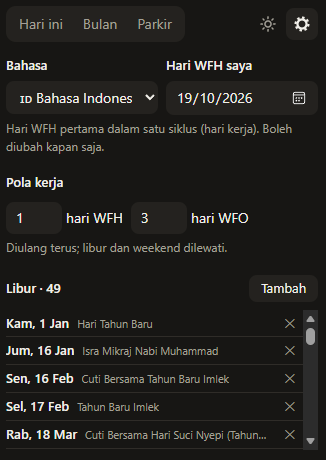
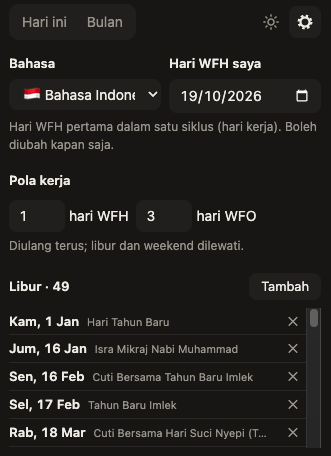
feat(readme): update readme

diff --git a/popup.js b/popup.js
@@ -27,17 +27,18 @@ const label = (st) => (st === 'libur' ? t('libur') : st.toUpperCase()); // WFO/W
 const dt = (iso, opts) => new Intl.DateTimeFormat(LANGS[lang].locale, { timeZone: 'UTC', ...opts }).format(new Date(toNum(iso) * 864e5));
 const fmt = (iso) => dt(iso, { weekday: 'short', day: 'numeric', month: 'short', year: 'numeric' });
 const dow = (iso) => dt(iso, { weekday: 'short' });
+const parkName = (k) => t(k === 'tapin' ? 'tapIn' : 'flazz');
 const today = todayIso();
 const Y0 = +today.slice(0, 4);
 let year = Y0, month = +today.slice(5, 7) - 1;
-let pday = today; // hari yang sedang diedit di tab Parkir
+let pday = null; // hari yang dipilih di kalender Bulan; tombol parkir muncul hanya kalau ada
 
 const save = () => store.set({ anchor, holidays, wfh, wfo });
 const savePark = () => pstore.set({ parking });
 const hasHolidays = (y) => Object.keys(holidays).some((d) => d.startsWith(`${y}-`));
 
 function show(tab) {
-  for (const s of ['today', 'month', 'parking', 'settings']) $(s).hidden = s !== tab;
+  for (const s of ['today', 'month', 'settings']) $(s).hidden = s !== tab;
   document.querySelectorAll('[data-tab]').forEach((b) => b.setAttribute('aria-current', b.dataset.tab === tab));
   render();
 }
@@ -49,9 +50,8 @@ function render() {
   else if (!hasHolidays(viewYear)) $('warn').textContent = t('warnHolidays', viewYear);
   else $('warn').hidden = true;
   if (!anchor && $('month').hidden) $('warn').hidden = true; // kartu hari ini / pengaturan sudah mengarahkan
-  if (!$('parking').hidden) $('warn').hidden = true;
 
-  renderToday(); renderMonth(); renderParking(); renderSettings();
+  renderToday(); renderMonth(); renderSettings();
 }
 
 function renderToday() {
@@ -97,60 +97,44 @@ function renderMonth() {
   const monday = toNum('2024-01-01'); // hari Senin apa saja, untuk nama hari
   grid.replaceChildren(...Array.from({ length: 7 }, (_, i) => Object.assign(document.createElement('div'), { className: 'dow', textContent: dow(toIso(monday + i)) })));
   for (let i = 0; i < lead; i++) grid.append(Object.assign(document.createElement('div'), { className: 'cell blank' }));
+  const ym = `${year}-${mm}`;
+  if (pday && !pday.startsWith(ym)) pday = null;
   const count = { wfo: 0, wfh: 0, libur: 0 };
-  for (let n = first; toIso(n).startsWith(`${year}-${mm}`); n++) {
+  const pcount = { tapin: 0, flazz: 0 };
+  for (let n = first; toIso(n).startsWith(ym); n++) {
     const iso = toIso(n);
     const st = anchor ? statusOf(iso, anchor, holidays, wfh, wfo) : (isOff(iso, holidays) ? 'libur' : '');
     const weekend = isWeekend(iso);
     if (st && !weekend) count[st]++;
-    const c = document.createElement('div');
-    c.className = `cell ${iso in holidays ? 'libur' : weekend ? 'weekend' : st}${iso === today ? ' today' : ''}`; // libur di weekend tetap merah
+    const kind = parking[iso];
+    if (kind) pcount[kind]++;
+    // Lingkaran = status kerja; huruf T/F di pojok = catatan parkir. Klik untuk memilih hari.
+    const c = document.createElement('button');
+    c.className = `cell ${iso in holidays ? 'libur' : weekend ? 'weekend' : st}${iso === today ? ' today' : ''}${iso === pday ? ' sel' : ''}`; // libur di weekend tetap merah
+    if (kind) { c.dataset.park = kind === 'tapin' ? 'T' : 'F'; c.classList.add(`pk-${kind}`); }
     if (iso in holidays) c.dataset.tip = iso;
     else if (weekend || st) c.title = label(weekend ? 'libur' : st);
+    c.setAttribute('aria-label', `${fmt(iso)}${st ? `, ${label(weekend ? 'libur' : st)}` : ''}${kind ? `, ${parkName(kind)}` : ''}`);
+    c.setAttribute('aria-pressed', iso === pday);
+    c.onclick = () => { pday = pday === iso ? null : iso; renderMonth(); }; // klik lagi = tutup
     const num = document.createElement('b');
     num.textContent = +iso.slice(8);
     c.append(num);
     grid.append(c);
   }
-  $('summary').hidden = !anchor;
-  $('summary').replaceChildren(...['wfh', 'wfo', 'libur'].flatMap((k) =>
-    [Object.assign(document.createElement('i'), { className: `k ${k}` }), `${count[k]} ${label(k)}`]));
-}
+  // Satu baris: status kerja (kalau anchor ada) lalu jumlah parkir (selalu tampil).
+  const span = (items) => { const g = document.createElement('span'); g.className = 'grp'; g.append(...items); return g; };
+  $('summary').replaceChildren(
+    ...(anchor ? [span(['wfh', 'wfo', 'libur'].flatMap((k) =>
+      [Object.assign(document.createElement('i'), { className: `k ${k}` }), `${count[k]} ${label(k)}`]))] : []),
+    span(['tapin', 'flazz'].flatMap((k) =>
+      [Object.assign(document.createElement('i'), { className: `k pk-${k}`, textContent: k === 'tapin' ? 'T' : 'F', title: parkName(k) }), `${pcount[k]}`])));
 
-function renderParking() {
-  const mm = String(month + 1).padStart(2, '0');
-  const ym = `${year}-${mm}`;
-  $('p-title').textContent = dt(`${ym}-01`, { month: 'long', year: 'numeric' });
-  $('p-prev').disabled = $('prev').disabled;
-  $('p-next').disabled = $('next').disabled;
-  if (!pday.startsWith(ym)) pday = ym === today.slice(0, 7) ? today : `${ym}-01`;
-
-  const grid = $('p-grid');
-  const first = toNum(`${ym}-01`);
-  const lead = (new Date(first * 864e5).getUTCDay() + 6) % 7;
-  const monday = toNum('2024-01-01');
-  grid.replaceChildren(...Array.from({ length: 7 }, (_, i) => Object.assign(document.createElement('div'), { className: 'dow', textContent: dow(toIso(monday + i)) })));
-  for (let i = 0; i < lead; i++) grid.append(Object.assign(document.createElement('div'), { className: 'cell blank' }));
-  const count = { tapin: 0, flazz: 0 };
-  for (let n = first; toIso(n).startsWith(ym); n++) {
-    const iso = toIso(n);
-    const kind = parking[iso];
-    if (kind) count[kind]++;
-    const c = document.createElement('button');
-    c.className = `cell pk${kind ? ` ${kind}` : ''}${iso === pday ? ' sel' : ''}${iso === today ? ' today' : ''}`;
-    c.setAttribute('aria-label', `${fmt(iso)}${kind ? `: ${t(kind === 'tapin' ? 'tapIn' : 'flazz')}` : ''}`);
-    c.onclick = () => { pday = iso; renderParking(); };
-    c.append(Object.assign(document.createElement('b'), { textContent: +iso.slice(8) }));
-    grid.append(c);
-  }
-
+  $('p-edit').hidden = !pday;
+  if (!pday) return;
   const cur = parking[pday];
-  $('p-day').textContent = `${fmt(pday)} · ${cur ? t(cur === 'tapin' ? 'tapIn' : 'flazz') : t('parkNone')}`;
+  $('p-day').textContent = `${fmt(pday)} · ${cur ? parkName(cur) : t('parkNone')}`;
   document.querySelectorAll('.pick [data-kind]').forEach((b) => b.classList.toggle('on', b.dataset.kind === cur));
-  // angka muncul setelah ada yang dipilih bulan ini
-  $('p-summary').hidden = !count.tapin && !count.flazz;
-  $('p-summary').replaceChildren(...['tapin', 'flazz'].flatMap((k) =>
-    [Object.assign(document.createElement('i'), { className: `k ${k}` }), `${t(k === 'tapin' ? 'tapIn' : 'flazz')}: ${t('parkCount', count[k])}`]));
 }
 
 function renderSettings() {
@@ -182,13 +166,13 @@ function msg(text, ok, id = 'msg') {
 
 document.querySelectorAll('[data-tab]').forEach((b) => (b.onclick = () => show(b.dataset.tab)));
 const step = (d) => { month += d; year += Math.floor(month / 12); month = (month + 12) % 12; render(); };
-$('prev').onclick = $('p-prev').onclick = () => step(-1);
-$('next').onclick = $('p-next').onclick = () => step(1);
+$('prev').onclick = () => step(-1);
+$('next').onclick = () => step(1);
 
 // Satu hari satu pilihan: klik yang lain mengganti, klik yang sama menghapus.
 document.querySelectorAll('.pick [data-kind]').forEach((b) => (b.onclick = () => {
   if (parking[pday] === b.dataset.kind) delete parking[pday]; else parking[pday] = b.dataset.kind;
-  savePark(); renderParking();
+  savePark(); renderMonth();
 }));
 $('goto-today').onclick = () => { year = Y0; month = +today.slice(5, 7) - 1; render(); };
 

diff --git a/popup.css b/popup.css
@@ -4,6 +4,7 @@
   --bg: #fafaf8; --fg: #1c1b19; --muted: #6a675f; --line: #e4e1da; --tile: #efede7;
   --wfo-bg: #1c1b19; --wfo-fg: #fafaf8;
   --wfh-bg: #1d4ed8; --wfh-fg: #fff; --red: #b91c1c;
+  --tap-bg: #0f766e; --tap-fg: #fff; --flz-bg: #b45309; --flz-fg: #fff;
   --warn-bg: #fdf1d3; --warn-fg: #7a4a06; --bad: #b42318; --good: #2a6b3a;
 }
 /* Tema ikut sistem, kecuali user memilih lewat tombol (data-theme di <html>). */
@@ -12,6 +13,7 @@
     --bg: #171614; --fg: #f1efe9; --muted: #a3a097; --line: #2f2c28; --tile: #24221f;
     --wfo-bg: #f1efe9; --wfo-fg: #171614;
     --wfh-bg: #60a5fa; --wfh-fg: #0b1733; --red: #f87171;
+    --tap-bg: #5eead4; --tap-fg: #042f2e; --flz-bg: #fbbf24; --flz-fg: #1c1917;
     --warn-bg: #3a2c0a; --warn-fg: #f6d58a; --bad: #ff8a80; --good: #7fd18f;
     color-scheme: dark;
   }
@@ -20,6 +22,7 @@
   --bg: #171614; --fg: #f1efe9; --muted: #a3a097; --line: #2f2c28; --tile: #24221f;
   --wfo-bg: #f1efe9; --wfo-fg: #171614;
   --wfh-bg: #60a5fa; --wfh-fg: #0b1733; --red: #f87171;
+    --tap-bg: #5eead4; --tap-fg: #042f2e; --flz-bg: #fbbf24; --flz-fg: #1c1917;
   --warn-bg: #3a2c0a; --warn-fg: #f6d58a; --bad: #ff8a80; --good: #7fd18f;
   color-scheme: dark;
 }
@@ -88,27 +91,26 @@ button:disabled { opacity: .3; cursor: default; }
 .cell.libur b { color: var(--red); }
 .k.libur { background: var(--red); }
 .cell.weekend b { color: var(--muted); font-weight: 400; }
-.cell.today b { outline: 2px solid var(--fg); outline-offset: 2px; }
+.cell.sel b, .cell.today b { outline: 2px solid var(--fg); outline-offset: 2px; }
 .blank { visibility: hidden; }
-#summary { display: flex; align-items: center; gap: 6px; margin: 12px 2px 0; font-size: 12px; color: var(--muted); }
+#summary { display: flex; flex-wrap: wrap; justify-content: space-between; gap: 6px 12px; margin: 12px 2px 0; font-size: 12px; color: var(--muted); }
+#summary .grp { display: flex; align-items: center; gap: 6px; }
 .k { width: 12px; height: 12px; font-style: normal; }
-.k:not(:first-child) { margin-left: 8px; }
+.k:not(:first-child) { margin-left: 6px; }
 
-/* Parkir: Tap In = biru, Flazz = tinta netral; satu hari satu pilihan */
-#parking header { display: flex; align-items: center; gap: 2px; margin-bottom: 8px; }
-#p-title { flex: 1; font-size: 16px; }
-#p-grid { display: grid; grid-template-columns: repeat(7, 1fr); row-gap: 4px; }
-.cell.pk { padding: 0; border-radius: 0; }
-.cell.pk:hover { background: none; }
-.cell.pk b { background: none; font-weight: 600; }
-.cell.pk.tapin b, .k.tapin { background: var(--wfh-bg); color: var(--wfh-fg); }
-.cell.pk.flazz b, .k.flazz { background: var(--wfo-bg); color: var(--wfo-fg); }
-.cell.pk.sel b { outline: 2px solid var(--fg); outline-offset: 2px; }
-#p-day { margin: 12px 2px 0; font-size: 13px; color: var(--muted); }
+/* Parkir di kalender Bulan: lingkaran tetap status kerja, huruf T/F di pojok = catatan parkir.
+   Tap In = teal, Flazz = amber: beda dari biru WFH dan merah libur. */
+.cell[aria-pressed] { position: relative; width: 100%; padding: 0; border-radius: 8px; }
+.cell[aria-pressed]:hover:not(:disabled) { background: none; }
+.cell[aria-pressed]:hover b { box-shadow: inset 0 0 0 1px var(--line); }
+#grid:has(.sel) .cell.today:not(.sel) b { outline: 2px dashed var(--muted); } /* hari ini tetap kelihatan saat hari lain dipilih */
+.cell[data-park]::after, .k[class*="pk-"] { content: attr(data-park); display: grid; place-items: center;
+  width: 14px; height: 14px; border-radius: 4px; font: 700 9px/1 system-ui, sans-serif; }
+.cell[data-park]::after { position: absolute; right: 1px; bottom: 0; }
+.pk-tapin::after, .k.pk-tapin, .pick .secondary.on[data-kind="tapin"] { background: var(--tap-bg); color: var(--tap-fg); }
+.pk-flazz::after, .k.pk-flazz, .pick .secondary.on[data-kind="flazz"] { background: var(--flz-bg); color: var(--flz-fg); }
+#p-day { margin: 14px 2px 0; padding-top: 12px; border-top: 1px solid var(--line); font-size: 13px; color: var(--muted); }
 .pick .secondary { flex: 1; padding: 10px; font-weight: 600; }
-.pick .secondary.on[data-kind="tapin"] { background: var(--wfh-bg); color: var(--wfh-fg); }
-.pick .secondary.on[data-kind="flazz"] { background: var(--wfo-bg); color: var(--wfo-fg); }
-#p-summary { display: flex; align-items: center; gap: 6px; margin: 12px 2px 0; font-size: 12px; color: var(--muted); }
 
 /* Pengaturan */
 h2 { font-size: 13px; font-weight: 600; margin: 18px 0 6px; }

diff --git a/i18n.js b/i18n.js
@@ -11,7 +11,7 @@ export const STR = {
   id: {
     view: 'Tampilan', today: 'Hari ini', month: 'Bulan', settings: 'Pengaturan',
     holidays: 'Libur', cancel: 'Batal',
-    parking: 'Parkir', tapIn: 'Tap In', flazz: 'Flazz', parkNone: 'Belum dipilih', parkCount: (n) => `${n} hari`,
+    tapIn: 'Tap In', flazz: 'Flazz', parkNone: 'Belum dipilih',
     lightMode: 'Mode terang', darkMode: 'Mode gelap',
     prevMonth: 'Bulan sebelumnya', nextMonth: 'Bulan berikutnya',
     setup: 'Atur Jadwal WFH', libur: 'Libur',
@@ -47,7 +47,7 @@ export const STR = {
   en: {
     view: 'View', today: 'Today', month: 'Month', settings: 'Settings',
     holidays: 'Holidays', cancel: 'Cancel',
-    parking: 'Parking', tapIn: 'Tap In', flazz: 'Flazz', parkNone: 'Not chosen', parkCount: (n) => `${n} ${n === 1 ? 'day' : 'days'}`,
+    tapIn: 'Tap In', flazz: 'Flazz', parkNone: 'Not chosen',
     lightMode: 'Light mode', darkMode: 'Dark mode',
     prevMonth: 'Previous month', nextMonth: 'Next month',
     setup: 'Set WFH schedule', libur: 'Holiday',
@@ -83,7 +83,7 @@ export const STR = {
   'zh-CN': {
     view: '视图', today: '今天', month: '月份', settings: '设置',
     holidays: '假日', cancel: '取消',
-    parking: '停车', tapIn: 'Tap In', flazz: 'Flazz', parkNone: '未选择', parkCount: (n) => `${n} 天`,
+    tapIn: 'Tap In', flazz: 'Flazz', parkNone: '未选择',
     lightMode: '浅色模式', darkMode: '深色模式',
     prevMonth: '上个月', nextMonth: '下个月',
     setup: '设置 WFH 日程', libur: '假日',
@@ -119,7 +119,7 @@ export const STR = {
   ja: {
     view: '表示', today: '今日', month: '月', settings: '設定',
     holidays: '休日', cancel: 'キャンセル',
-    parking: '駐車', tapIn: 'Tap In', flazz: 'Flazz', parkNone: '未選択', parkCount: (n) => `${n} 日`,
+    tapIn: 'Tap In', flazz: 'Flazz', parkNone: '未選択',
     lightMode: 'ライトモード', darkMode: 'ダークモード',
     prevMonth: '前の月', nextMonth: '次の月',
     setup: 'WFH スケジュールを設定', libur: '休日',

diff --git a/popup.html b/popup.html
@@ -10,7 +10,6 @@
     <div class="seg" role="group" aria-label="Tampilan" data-i18n-label="view">
       <button data-tab="today" data-i18n="today">Hari ini</button>
       <button data-tab="month" data-i18n="month">Bulan</button>
-      <button data-tab="parking" data-i18n="parking">Parkir</button>
     </div>
     <div class="actions">
     <button id="theme" class="icon">
@@ -53,21 +52,13 @@
     </header>
     <div id="grid"></div>
     <p id="summary"></p>
-  </section>
-
-  <section id="parking" hidden>
-    <header>
-      <strong id="p-title"></strong>
-      <button id="p-prev" class="icon" aria-label="Bulan sebelumnya" data-i18n-label="prevMonth">‹</button>
-      <button id="p-next" class="icon" aria-label="Bulan berikutnya" data-i18n-label="nextMonth">›</button>
-    </header>
-    <div id="p-grid"></div>
-    <p id="p-day"></p>
-    <div class="row pick">
-      <button id="p-tapin" class="secondary" data-kind="tapin" data-i18n="tapIn">Tap In</button>
-      <button id="p-flazz" class="secondary" data-kind="flazz" data-i18n="flazz">Flazz</button>
+    <div id="p-edit" hidden>
+      <p id="p-day"></p>
+      <div class="row pick">
+        <button id="p-tapin" class="secondary" data-kind="tapin" data-i18n="tapIn">Tap In</button>
+        <button id="p-flazz" class="secondary" data-kind="flazz" data-i18n="flazz">Flazz</button>
+      </div>
     </div>
-    <p id="p-summary"></p>
   </section>
 
   <section id="settings" hidden>

diff --git a/README.md b/README.md
@@ -9,8 +9,8 @@ Extension Chrome untuk melihat hari ini WFH atau WFO. Pola kerjanya bisa diatur 
 Kartu besar menampilkan status hari ini (WFH, WFO, atau Libur) dan posisinya dalam siklus, contohnya "WFO ke-3 dari 3, lalu WFH". Di bawahnya ada strip beberapa hari ke depan dan tanggal WFH berikutnya beserta hitung mundurnya.
 
 <p>
-  <img src="media/today-light.png" width="260" alt="Tampilan Hari ini, mode terang">
-  <img src="media/today-dark.png" width="260" alt="Tampilan Hari ini, mode gelap">
+  <img src="media/day-light.png" width="260" alt="Tampilan Hari ini, mode terang">
+  <img src="media/day-dark.png" width="260" alt="Tampilan Hari ini, mode gelap">
 </p>
 
 ### Bulan
@@ -22,13 +22,11 @@ Kalender satu bulan dengan warna per status: biru untuk WFH, abu-abu untuk WFO, 
   <img src="media/month-dark.png" width="260" alt="Kalender bulan, mode gelap">
 </p>
 
-### Parkir
-
-Catatan parkir harian dengan dua pilihan: **Tap In** atau **Flazz**. Satu hari hanya bisa satu pilihan. Klik tanggal di kalender (default hari ini), lalu tekan Tap In atau Flazz. Tekan pilihan lain untuk menggantinya, atau tekan pilihan yang sama lagi untuk menghapusnya, jadi hari mana pun bisa diedit. Setelah ada catatan, jumlah hari Tap In dan Flazz bulan itu muncul di bawah kalender. Tombol ‹ › pindah bulan.
+Kalender yang sama juga dipakai untuk catatan parkir: **Tap In** atau **Flazz**, satu pilihan per hari. Klik tanggal untuk memunculkan tombol Tap In dan Flazz di bawah kalender; klik tanggal yang sama lagi untuk menutupnya. Tekan pilihan lain untuk mengganti, atau pilihan yang sama lagi untuk menghapus. Hari yang sudah dicatat diberi huruf kecil di pojok tanggal: **T** hijau toska untuk Tap In, **F** oranye untuk Flazz. Jumlah harinya selalu tampil sebaris dengan jumlah WFH, WFO, dan libur.
 
 <p>
-  <img src="media/parkir-light.png" width="260" alt="Tab Parkir, mode terang">
-  <img src="media/parkir-dark.png" width="260" alt="Tab Parkir, mode gelap">
+  <img src="media/tap-in-light.png" width="260" alt="Mencatat Tap In pada tanggal terpilih, mode terang">
+  <img src="media/tap-in-dark.png" width="260" alt="Mencatat Tap In pada tanggal terpilih, mode gelap">
 </p>
 
 ### Pengaturan
